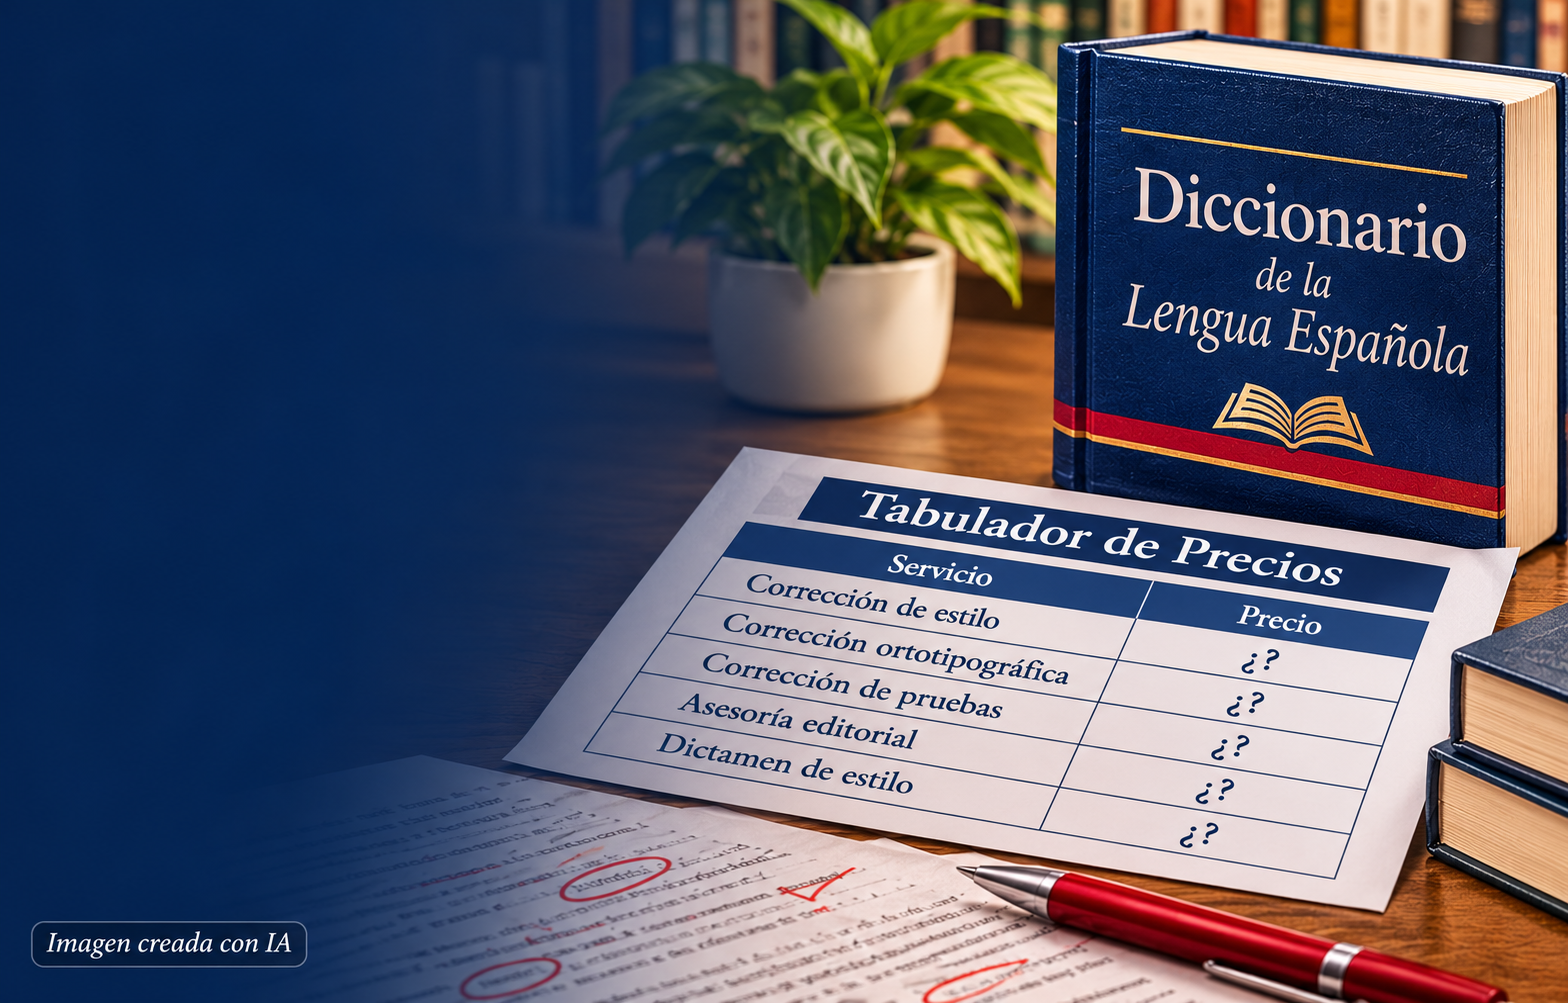
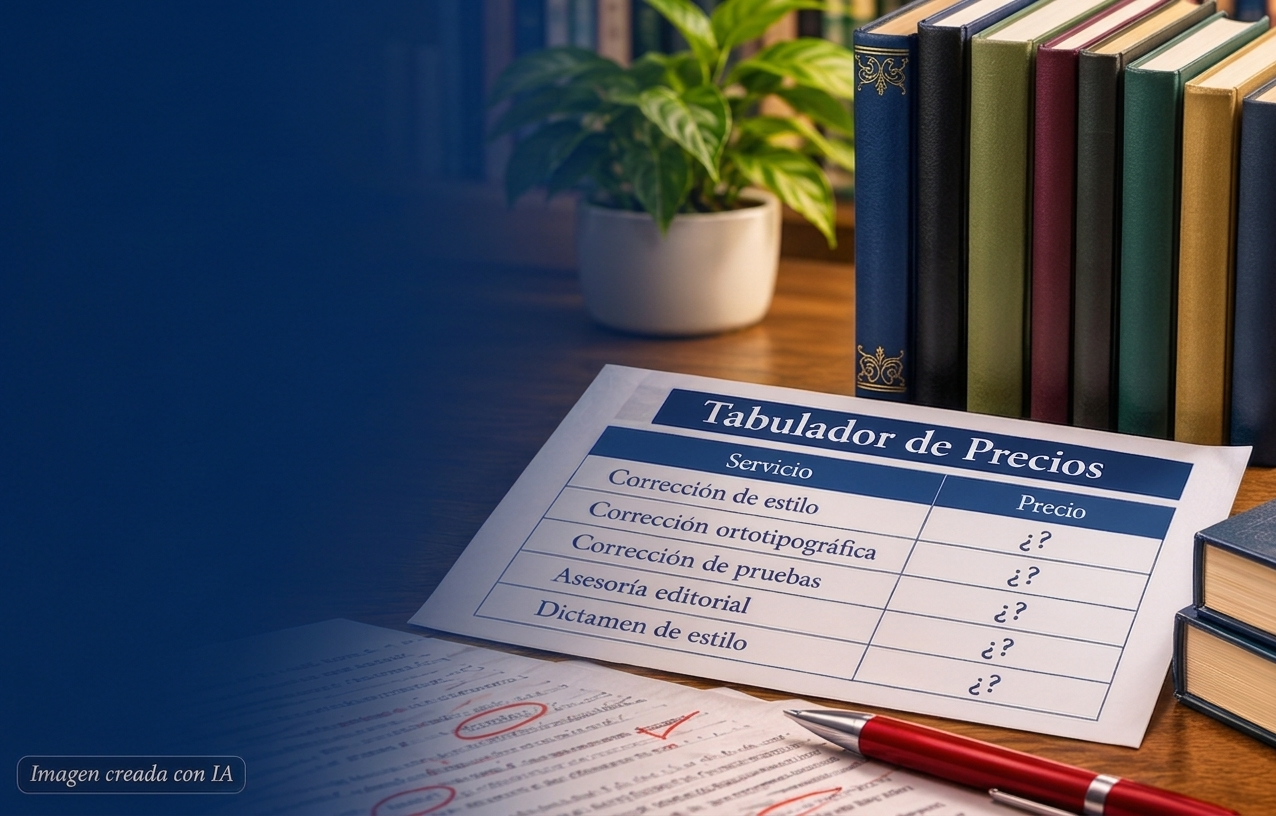
se arreglan algunas cosas

diff --git a/_posts/2026-11-09-de-la-cuartilla-al-tabulador.md b/_posts/2026-11-09-de-la-cuartilla-al-tabulador.md
@@ -2,8 +2,8 @@
 title: "De la cuartilla unificada al tabulador propio: autonomía tarifaria y dignificación laboral"
 author: "Ana Lilia Arias"
 categories: [investigación, divulgación]
-keywords: [corrección de estilo, blog, tabuladores]
-image: /img/blog/cuartilla2.jpg
+keywords: [autonomía tarifaria, dignificación laboral, criterios de valuación, trabajo asociativo, corrección de estilo]
+image: /img/blog/cuartilla.jpg
 
 ---
 
@@ -25,7 +25,7 @@ Hace dos años, en el CICTE anterior, planteé un primer paso indispensable: pro
 
 Antes ya había presentado formalmente el ajuste de cuartillas al Fondo de Cultura Económica; esto porque junto con la UNAM son instituciones clave para el trabajo editorial. En su momento, la propuesta generó resistencia o fue minimizada; sin embargo, este año el Fondo dio un paso histórico al ajustar su pauta a 1620 caracteres, gracias al impulso y trabajo constante de dos colegas en la trinchera. Cuando la propuesta es sólida y justa, sin lugar a duda permea.
 
-Si es posible modificar métricas institucionales, el siguiente paso lógico y urgente no es seguir esperando que la industria nos fije un tabulador, sino transitar hacia la autonomía tarifaria y al arancel vivo. De nada sirve unificar el envase si las lógicas de contratación le siguen imponiendo precios ciegos al contenido porque no ven sino números planos e ignoran el esfuerzo real del profesional.
+Si es posible modificar métricas institucionales, el siguiente paso lógico y urgente no es seguir esperando que la industria nos fije un tabulador, sino transitar hacia la autonomía tarifaria y al arancel vivo. De nada sirve unificar el envase si las lógicas de contratación le siguen imponiendo precios ciegos al contenido porque no ven sino números planos e ignoran el esfuerzo, experiencia y conocimiento del profesional.
 
 ## La resistencia del texto
 
